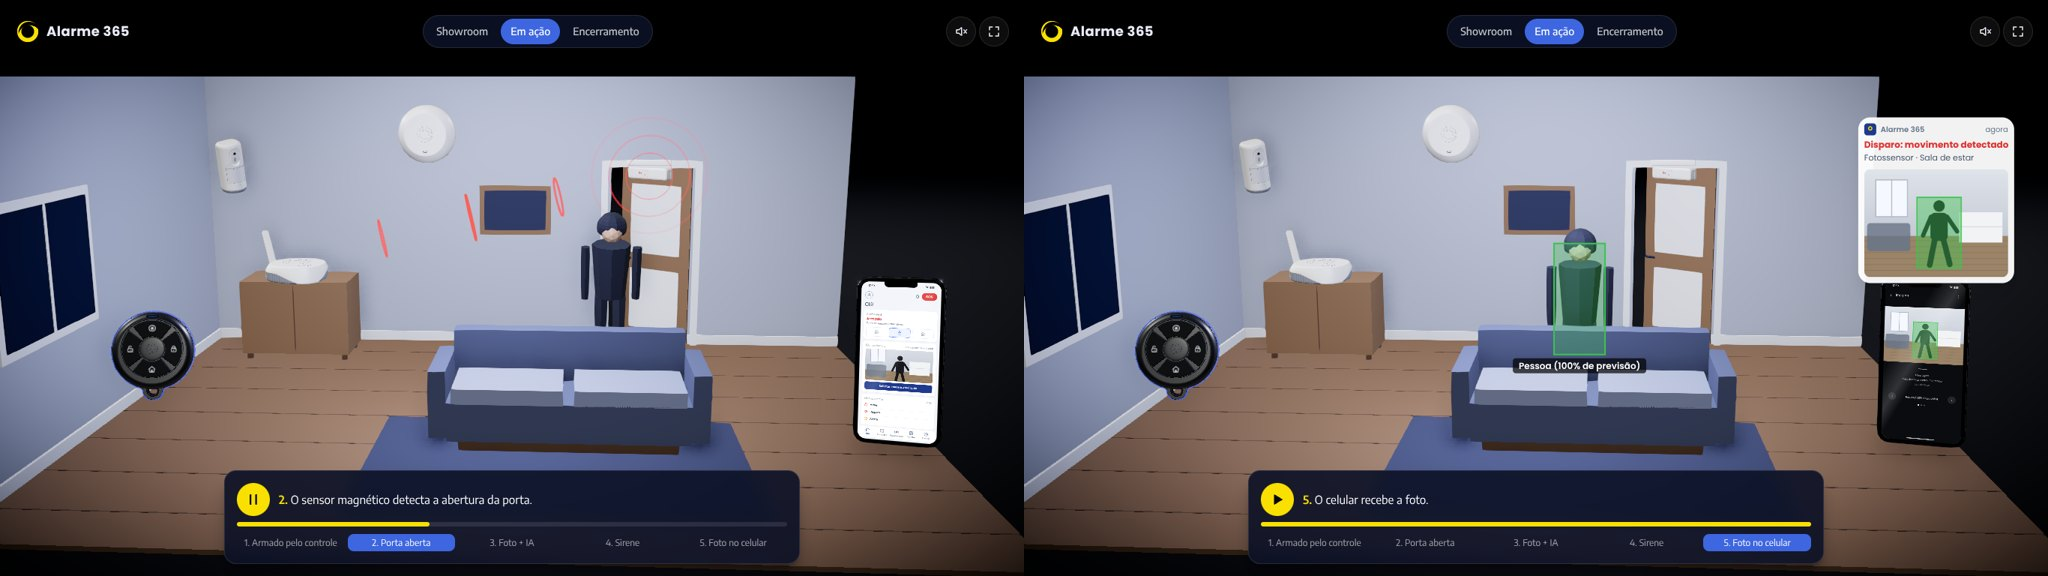
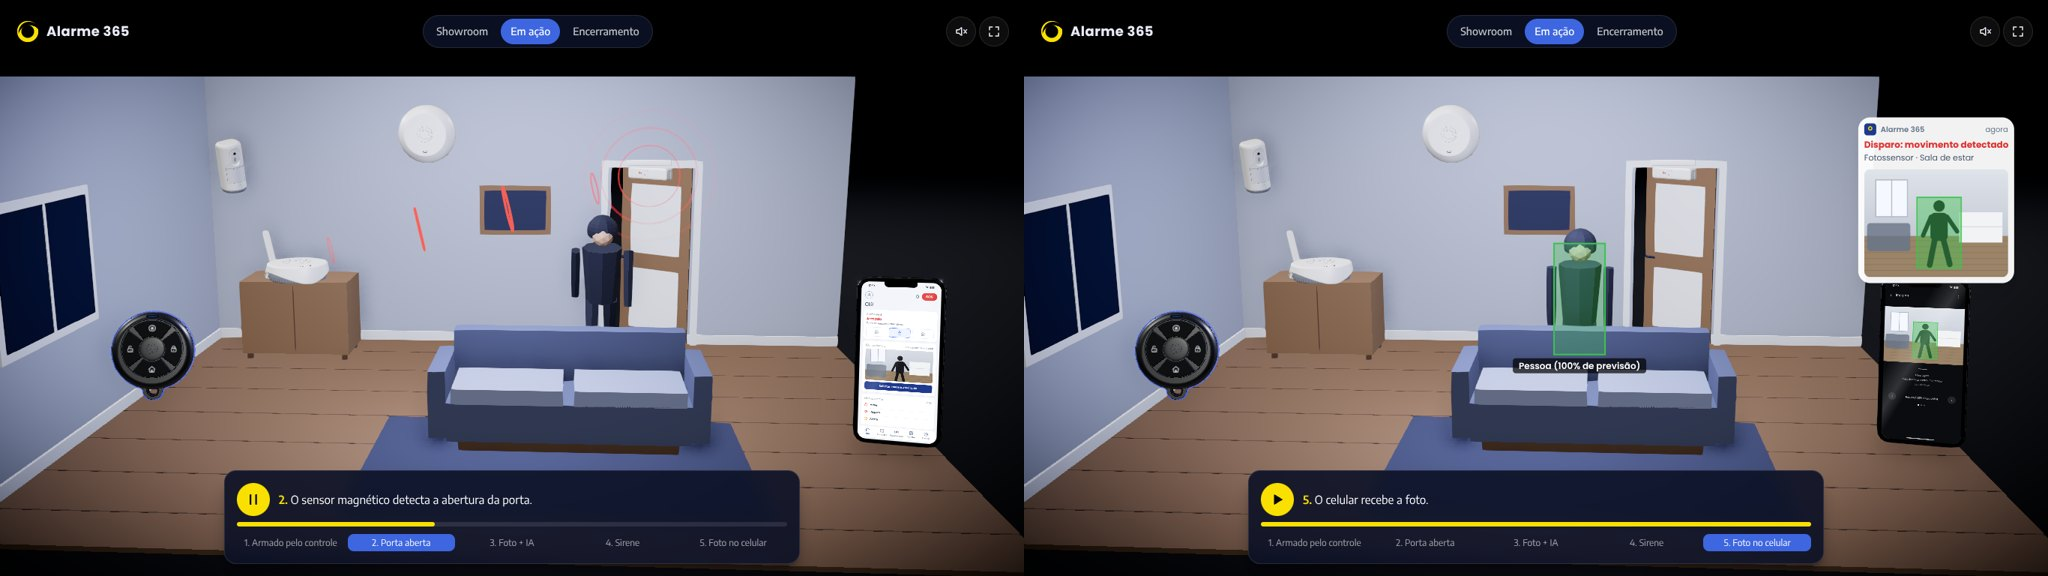
Docs, prints e imagem da abertura: módulo com a tampa mais fina
MODELAGEM.md e README descrevem a forma nova da tampa e da base e dizem
o que é estimado. Refeitos a prancha de antes e depois do módulo, o
print da cena "Em ação" e a imagem da abertura (o módulo aparece nos
três).

Claude-Session: https://claude.ai/code/session_01JGedzfrxJd5vL5mskTPSnU

Changed region(s): [[0.2188, 0.3125, 0.3125, 0.5625], [0.1875, 0.4062, 0.2188, 0.4375]]

diff --git a/docs/MODELAGEM.md b/docs/MODELAGEM.md
@@ -7,14 +7,14 @@ Materiais: plástico branco acetinado #F1F2F4 com verniz leve e micro-textura (`
 ## Módulo de Comando (planta de 144 × 145 mm, 38 mm de altura; 1 un = 80 mm; frente em +Z)
 
 
-A tampa é uma superfície só: topo plano e nivelado (um disco redondo), canto arredondado e lateral que desce, abrindo, até o contorno em gota (redondo do lado da antena, afinando para uma ponta arredondada na frente). A tampa encosta no fundo em três pontos, que é onde ficam os fechos: na frente (largo: de frente, a tampa cobre tudo), atrás à esquerda e atrás à direita. Entre eles a borda sobe em arco: nos dois lados, onde aparece a base cinza, e atrás, por onde saem a antena e os cabos. A base tem frisos verticais rasos na parede (os sulcos caem em cima das fendas do fundo e somem antes da borda de baixo), fendas curtas de ventilação em volta, três pés baixos, o rebaixo raso da etiqueta (vazio) e o bolsão fundo no meio da borda de trás. O bolsão é um rasgo aberto: atravessa a parede de trás até a borda, e é por ali que os cabos saem. Dentro dele: grade de som em hexágono (37 furos) numa moldura de cantos redondos na face funda, RJ45 deitado, na parede da frente do bolsão, com a boca virada para dentro dele (o cabo entra deitado), e o jack da fonte na parede esquerda, a meia altura. A antena não sai do centro: fica num ressalto ao lado do bolsão (à direita de quem olha o fundo); o furo pequeno fica do outro lado.
+A tampa é uma superfície só: topo plano, nivelado e largo (quase do tamanho do corpo), ombro arredondado e lateral que desce abrindo. A tampa encosta no fundo em três pontos, que é onde ficam os fechos: na frente, atrás à esquerda e atrás à direita. Entre eles a borda sobe em arco: nos dois lados, onde aparece a base cinza, e atrás, por onde saem a antena e os cabos. Nos arcos a lateral é curta (~17 mm) e quase reta; nos três apoios ela continua até o fundo e abre mais, de modo que, vista de cima, a tampa tem três pontas. De frente, a borda desce dos dois lados até a ponta em linha reta: um V largo, de ponta estreita. A base cinza é um tambor redondo, mais estreito que a tampa: fica recuada sob a aba dela e afina para o fundo. A base tem frisos verticais rasos na parede (os sulcos caem em cima das fendas do fundo e somem antes da borda de baixo), fendas curtas de ventilação em volta, três pés baixos, o rebaixo raso da etiqueta (vazio) e o bolsão fundo no meio da borda de trás. O bolsão é um rasgo aberto: atravessa a parede de trás até a borda, e é por ali que os cabos saem. Dentro dele: grade de som em hexágono (37 furos) numa moldura de cantos redondos na face funda, RJ45 deitado, na parede da frente do bolsão, com a boca virada para dentro dele (o cabo entra deitado), e o jack da fonte na parede esquerda, a meia altura. A antena não sai do centro: fica num ressalto ao lado do bolsão (à direita de quem olha o fundo); o furo pequeno fica do outro lado.
 | part.id | Como é modelada |
 |---|---|
 | `tampa` | Uma malha paramétrica só (`lidGeometry`), desenhada em dois trechos que dividem os vértices: o disco do topo, fosco, e a lateral, com brilho. O raio e a altura da borda de baixo em volta do contorno vêm de `lidRim` (os três apoios e os arcos entre eles). Sob cada apoio, uma aba branca com fenda marca o fecho (aparece por baixo). Logo em sulcos finos. Por dentro: bloco do guia de luz com furo de parafuso, ganchos e ressalto. |
 | `botao-sos` | Tecla branca de cantos redondos, rente à tampa, perto da borda da frente, com aro prateado fino. Embaixo dela, um pino de cristal (guia de luz) desce até a placa. A tecla afunda enquanto o 190 é segurado. |
 | `led` | Ponto emissivo pequeno e forte no centro da tecla (escuro quando apagado); o brilho em volta vem do bloom. |
 | `antena` | Conector dourado rosqueado, junta com pino (articulação) e pá extrudada com chanfro. Sai da base, atrás, fora do centro: num ressalto de face plana ao lado do bolsão. |
-| `base` | Base cinza: parede com frisos verticais rasos no contorno em gota e fundo com o rebaixo da etiqueta e o rasgo do bolsão, que atravessa a parede de trás (na largura dele a parede só existe acima da face funda, e os frisos somem), numa malha só; onde a tampa cobre a base, a parede recua para dentro dela; fendas de ventilação em `InstancedMesh` (não há fenda atrás do bolsão nem do ressalto da antena). Acompanham: pés, furo pequeno, ressalto da antena e as duas travas da placa. |
+| `base` | Base cinza: tambor redondo com frisos verticais rasos, recuado sob a aba da tampa e afinando para o fundo, e fundo com o rebaixo da etiqueta e o rasgo do bolsão, que atravessa a parede de trás (na largura dele a parede só existe acima da face funda, e os frisos somem), numa malha só; onde a tampa cobre a base, a parede recua para dentro dela; fendas de ventilação em `InstancedMesh` (não há fenda atrás do bolsão nem do ressalto da antena). Acompanham: pés, furo pequeno, ressalto da antena e as duas travas da placa. |
 | `alto-falante` | Grade de 37 furos redondos em hexágono (`InstancedMesh`), na moldura da face funda do bolsão: de baixo, é o que mais aparece. |
 | `ethernet`, `fonte` | Porta de rede na parede da frente do bolsão (só a boca aparece; o corpo do conector fica embaixo da placa); conector de energia na parede esquerda. Na ação dos cabos, os dois chegam por trás, deitados, pela abertura do bolsão. |
 | `placa-principal` (i) | Placa verde limpa, com o recorte retangular no meio da borda de trás (onde passam o bolsão e o alto-falante): RJ45 no fundo do recorte, jack da fonte num dos braços, área de energia, pinos de teste, parafusos e etiqueta lisa. |

diff --git a/README.md b/README.md
@@ -111,5 +111,5 @@ A lista de partes de cada aparelho, com primitivas, proporções e materiais, es
 - Cor do filete lateral do controle: azul na arte oficial, amarelo na foto real. O demo usa o azul.
 - Disco central do controle: não é botão. A arte de marketing mostra o logo nele e o ícone do sistema mostra liso; o demo usa o logo em baixo-relevo discreto.
 - Sensor magnético: a foto de instalação mostra o corpo na folha da porta e o ímã no batente (o texto antigo dizia o contrário); confirmar no manual. A mesma foto tem um terceiro bloco branco, abaixo do corpo, que não foi modelado.
-- Módulo: a antena sai atrás, fora do centro, ao lado do bolsão dos cabos (pelo vídeo do fundo e pela foto de estúdio); a distância até o centro é estimada. A altura total segue a ficha (38 mm), mas a divisão entre base cinza (27 mm) e tampa é aproximada.
+- Módulo: a antena sai atrás, fora do centro, ao lado do bolsão dos cabos (pelo vídeo do fundo e pela foto de estúdio); a distância até o centro é estimada. A altura total segue a ficha (38 mm), mas a divisão entre base cinza (27 mm) e tampa é aproximada. A forma da tampa (topo largo, lateral curta nos arcos, três pontas nos apoios, frente em V) e o recuo da base saem dos quadros do vídeo de fábrica; os raios são estimados.
 - Sirene: o suporte de parede não tem medida na ficha; foi mantido o da rodada anterior.
